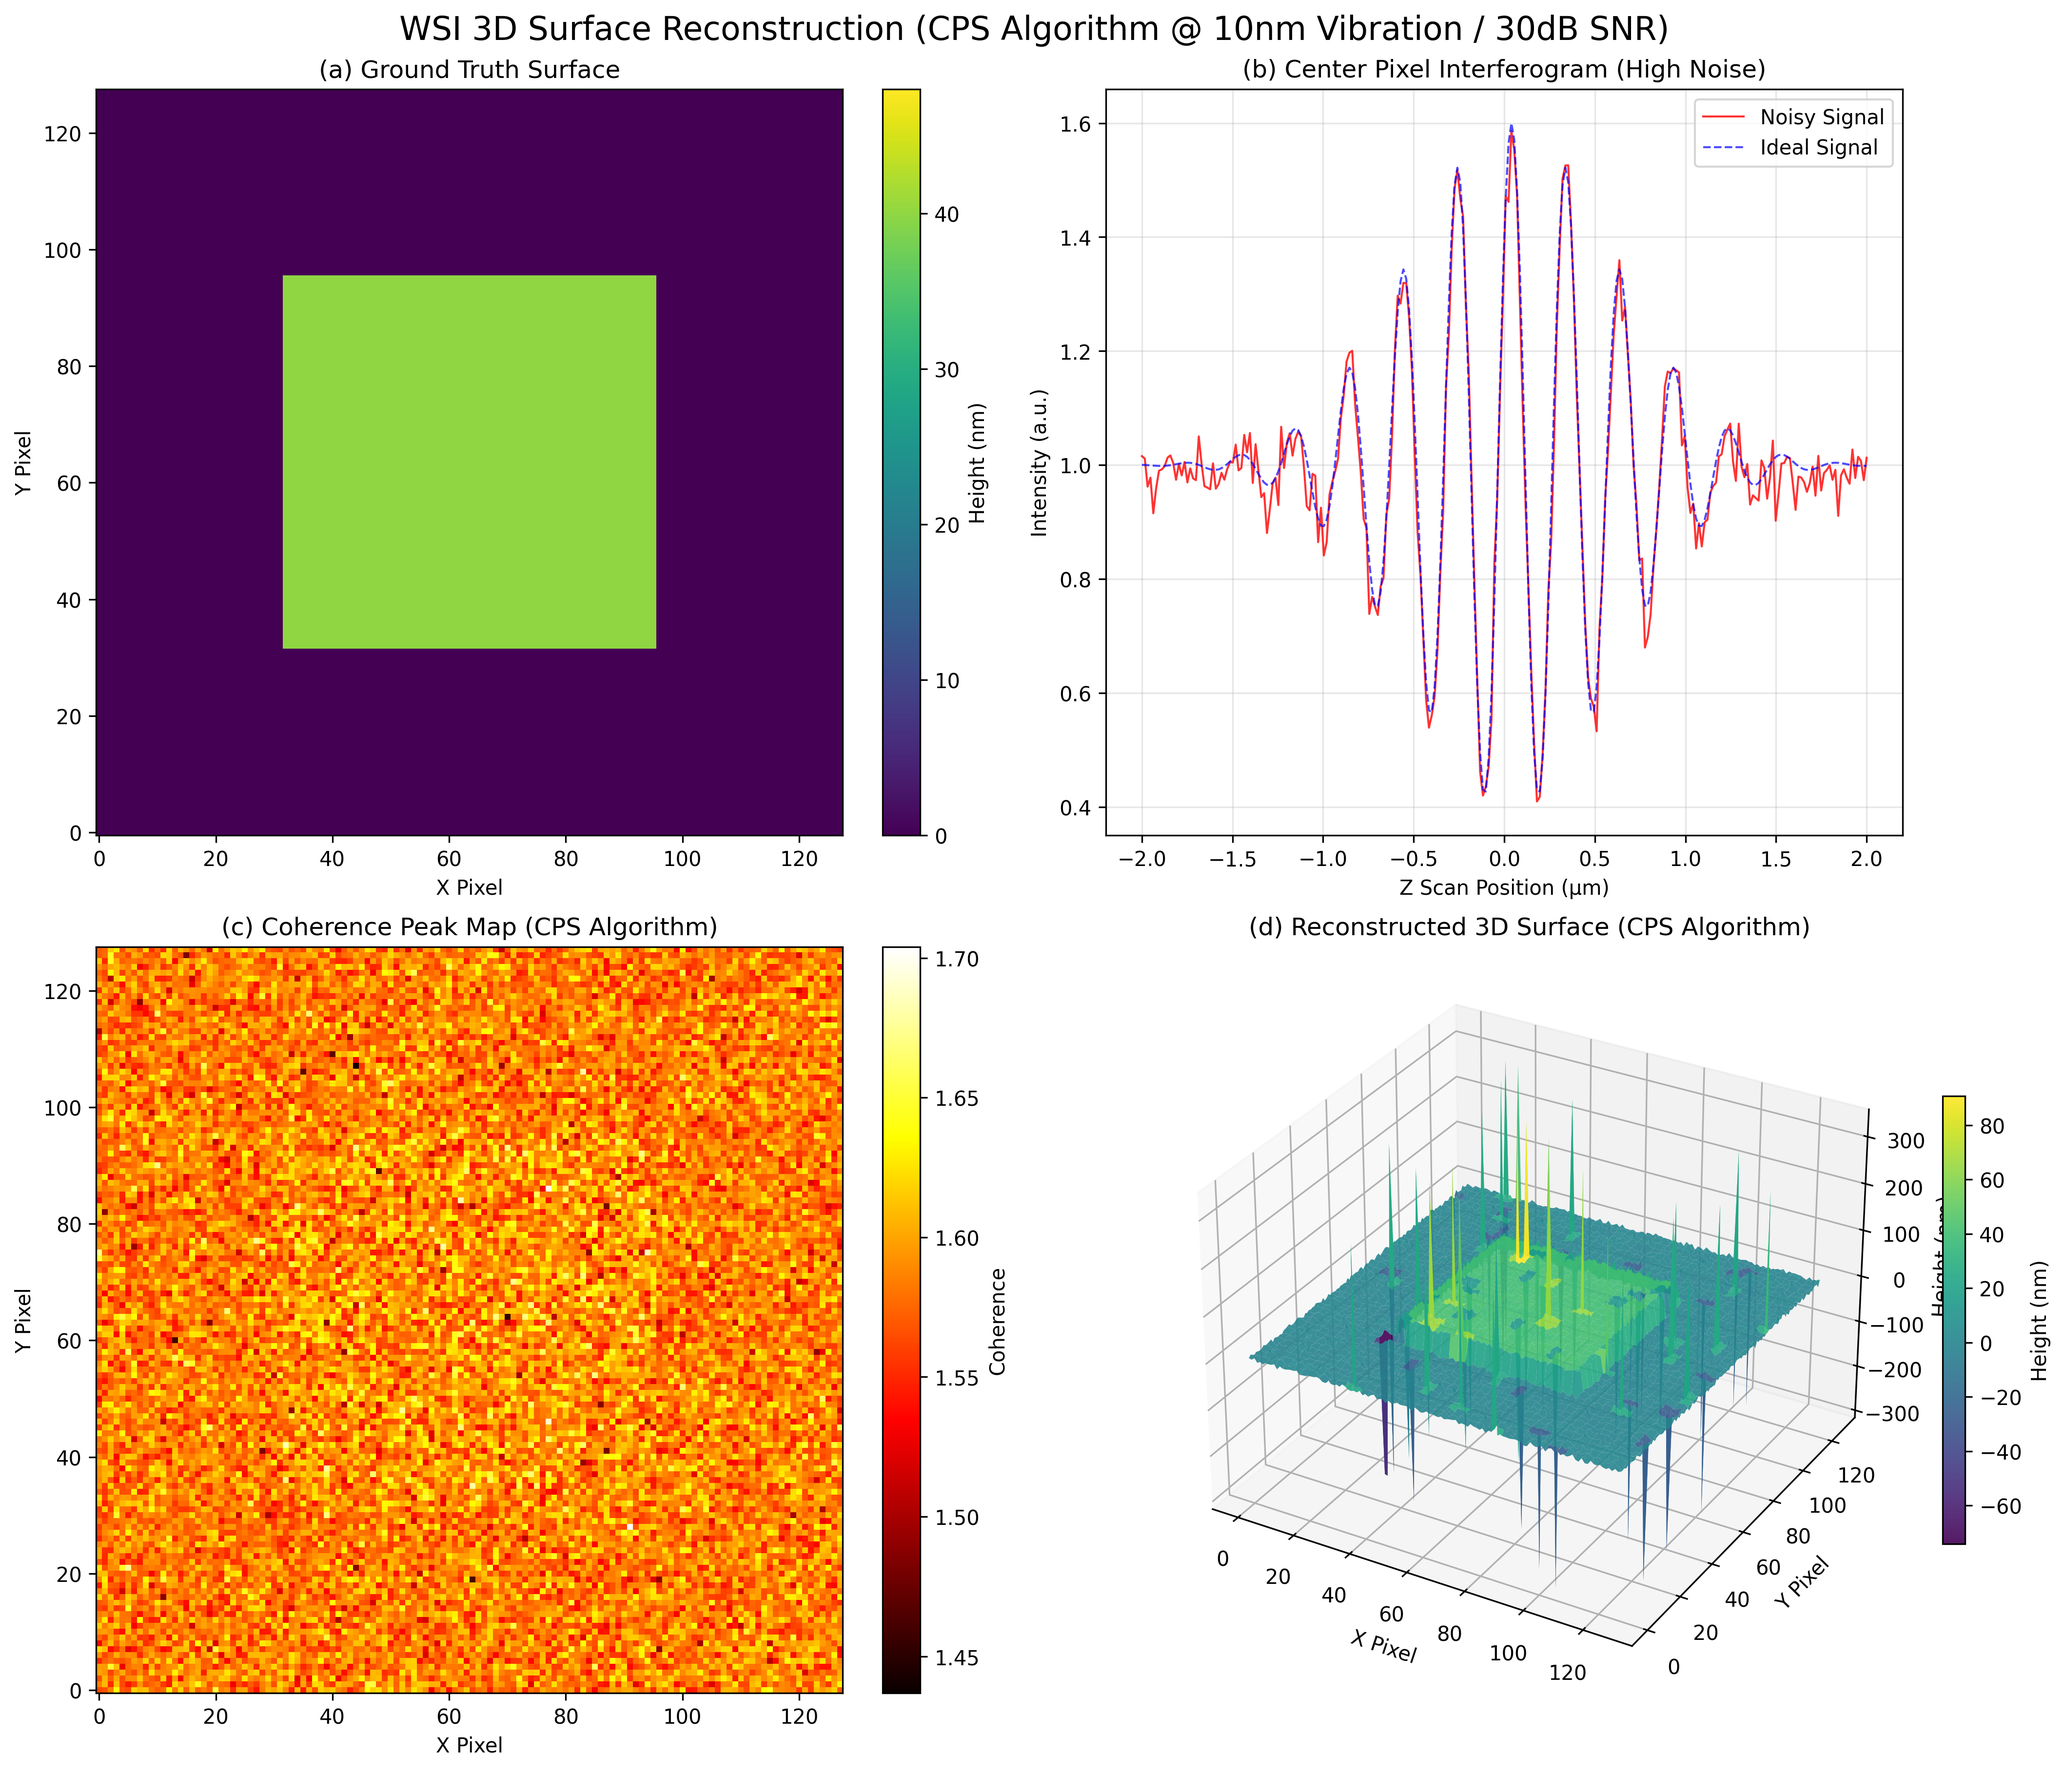
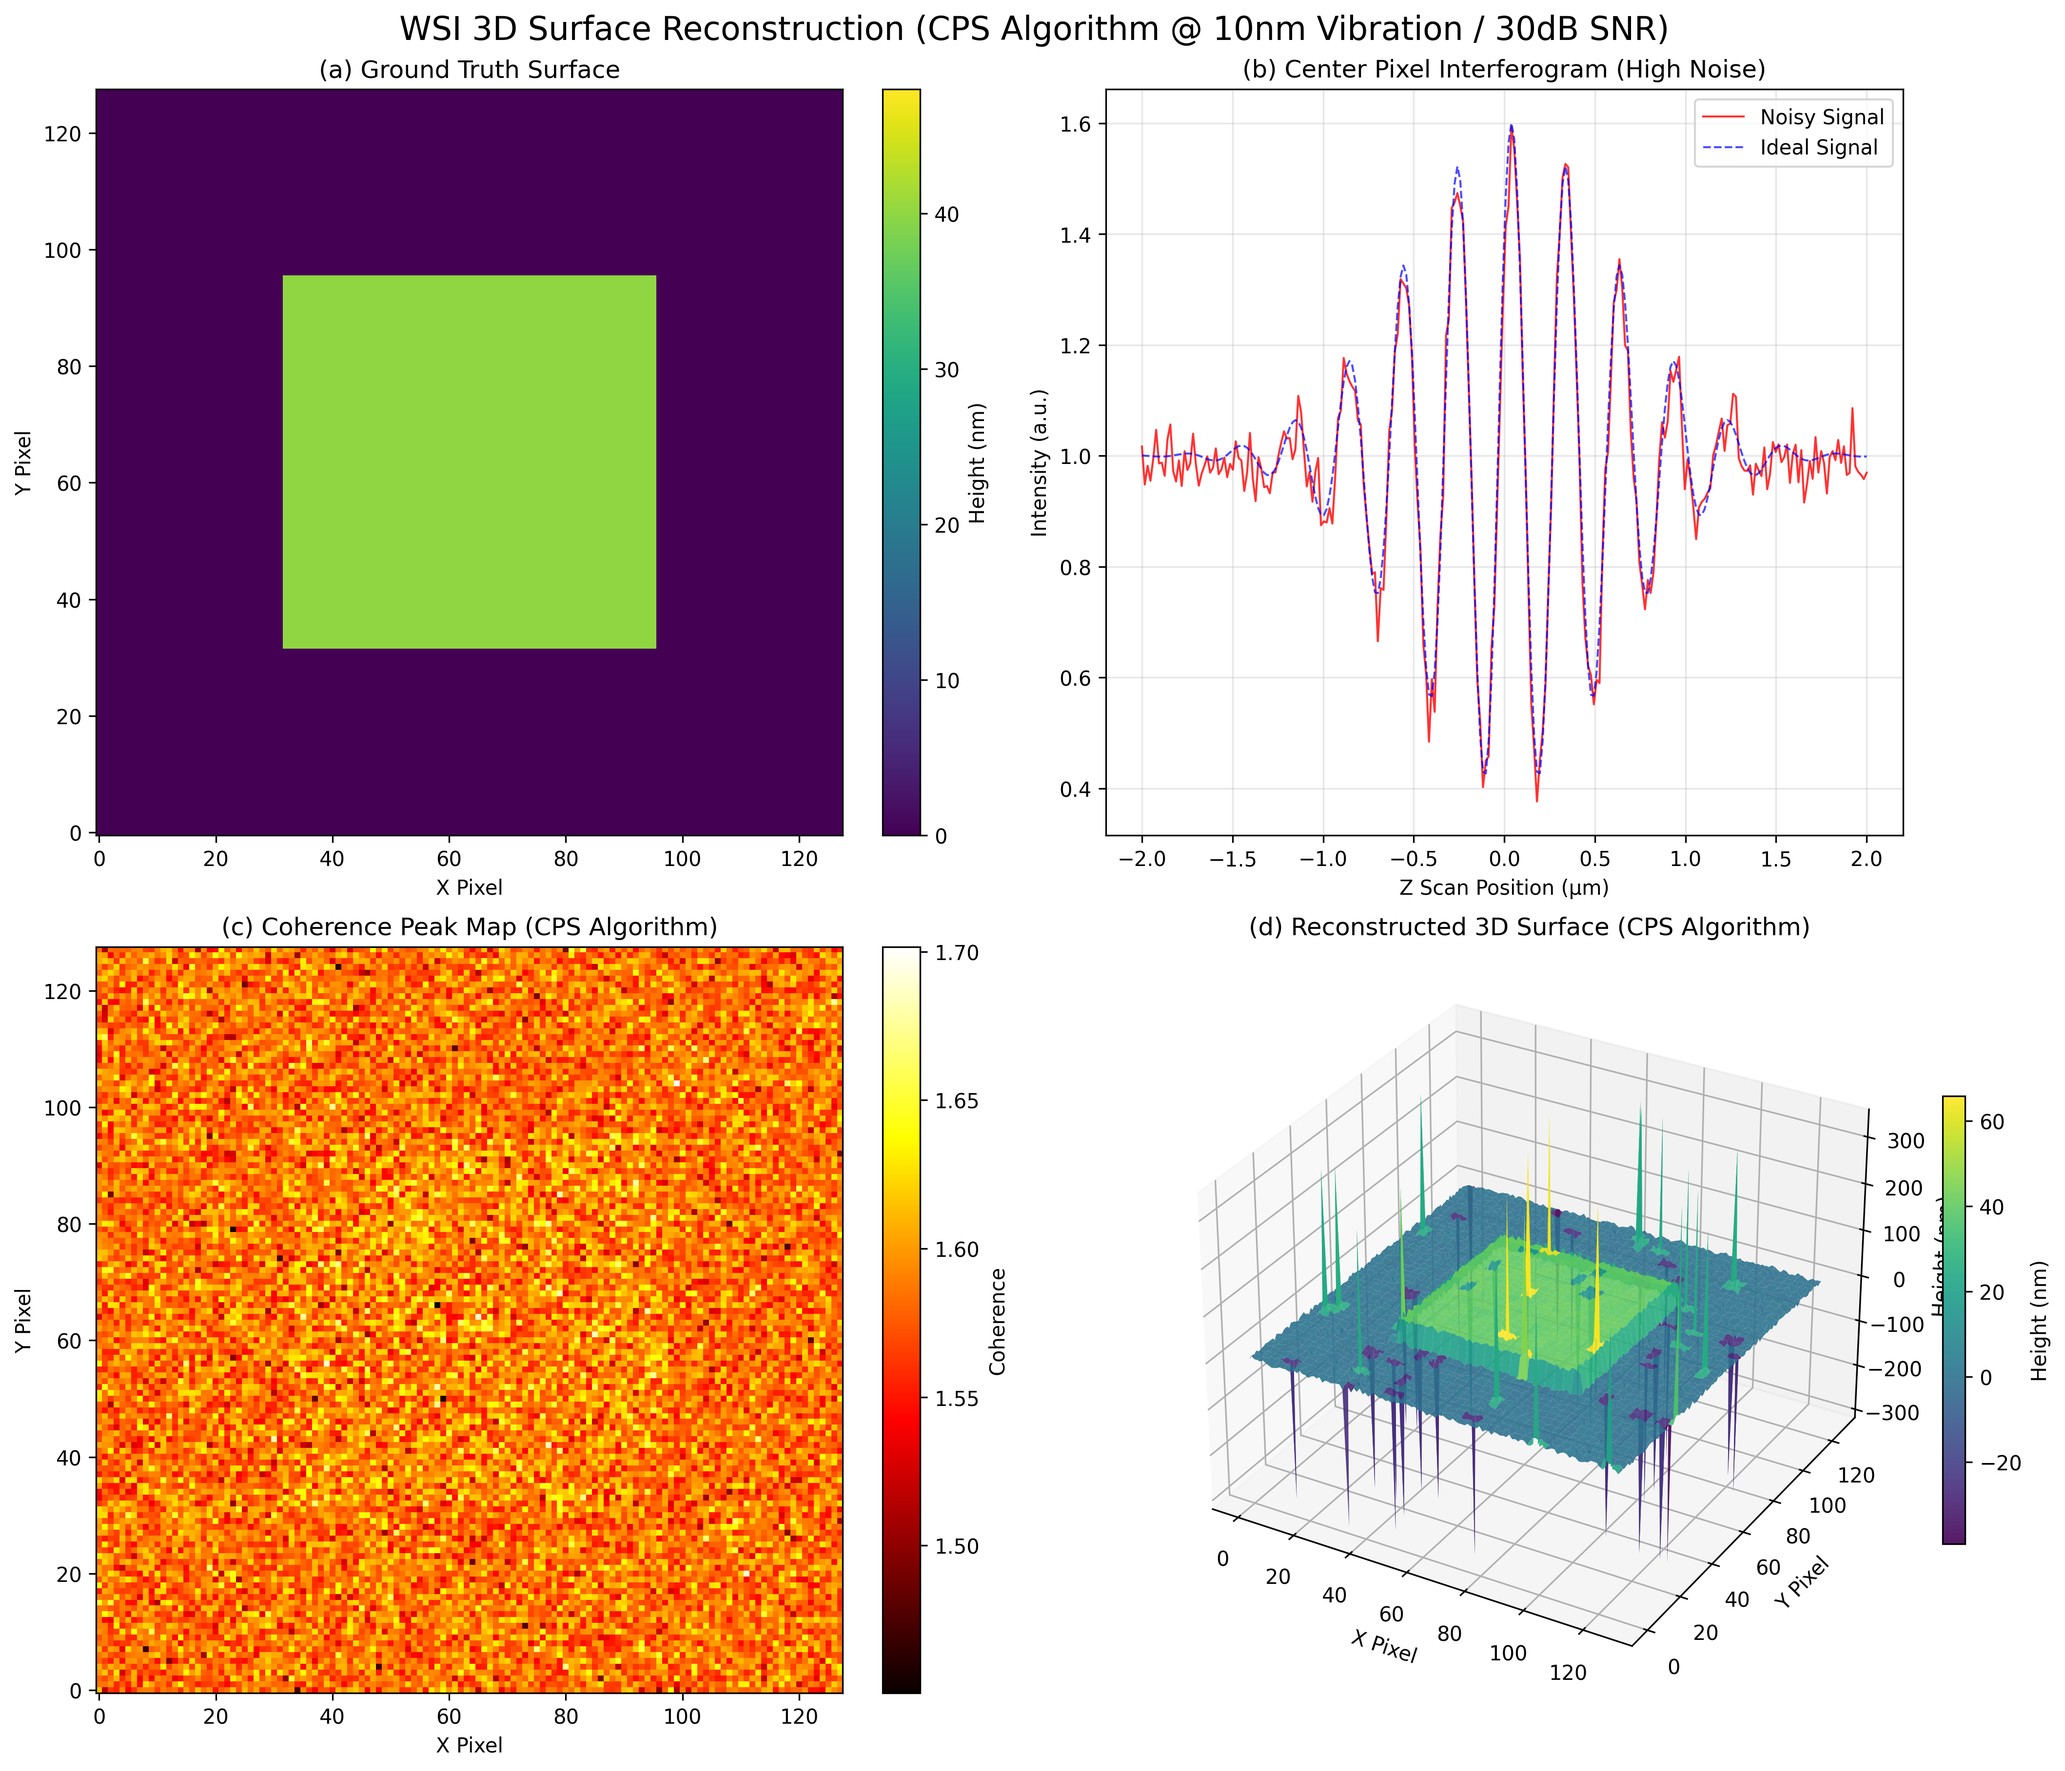
Fix: Implemented correct Takeda FFT algorithm and robust CPS. Cleaned project.

Changed region(s): [[0.0312, 0.5286, 0.4052, 0.964], [0.6234, 0.6219, 0.8727, 0.8707], [0.5299, 0.1555, 0.9039, 0.4353]]

diff --git a/src/processing.py b/src/processing.py
@@ -86,98 +86,59 @@ def process_cps_subpixel(stack, z_scan, smooth_sigma=8.0):
 
 def process_fft_phase(stack, z_scan, smooth_sigma=10.0, band_frac=0.15):
     """
-    算法二：基于FFT频域滤波和亚像素相位的WLPSI重建
+    算法二：基于FFT频域载波相位的WLPSI重建 (Takeda 修正版)
     （适用于高精度离线计量）
     
     参数:
         stack: 3D干涉信号栈 (n_z, n_y, n_x)
         z_scan: Z轴扫描位置数组 (n_z,)
-        smooth_sigma: 包络平滑强度，建议10.0-15.0
-        band_frac: 频域滤波带宽比例
+        smooth_sigma: (此方法中未使用，为保持接口一致性保留)
+        band_frac: (此方法中未使用，为保持接口一致性保留)
         
     返回:
         wrapped_phase_map: 包裹相位图 (n_y, n_x) [-π, π]
         coherence_map: 相干度图 (n_y, n_x)
     """
+    print(f"🔧 开始FFT相位算法处理 (Takeda 修正版): 栈尺寸{stack.shape}")
     n_z, n_y, n_x = stack.shape
     
     if n_z < 3:
         raise ValueError("需要至少3个Z轴采样点")
-    
-    print(f"🔧 开始FFT相位算法处理: 栈尺寸{stack.shape}, 平滑sigma={smooth_sigma}")
-    
-    # 1. 计算Z轴步长
-    dz = float(z_scan[1] - z_scan[0])  # 修正：计算实际步长
+
+    # 1. 计算Z轴步长 (dz)
+    dz = float(z_scan[1] - z_scan[0])
     
     # 2. 沿Z轴进行FFT
     stack_fft = fft(stack, axis=0)
     freqs = fftfreq(n_z, d=dz)
     
-    # 3. 自适应带通滤波器设计
-    mean_spectrum = np.mean(np.abs(stack_fft), axis=(1, 2))
-    center_idx = np.argmax(mean_spectrum)
+    # 3. 找到正频率的载波频率 (关键步骤)
+    # 我们只关心正频率部分 (k > 0)，因为负频率是共轭的
+    positive_freq_mask = (freqs > 0)
     
-    half_bw = max(2, int(n_z * band_frac / 2))
-    sigma = max(1.0, half_bw / 2.0)
+    # 如果没有正频率 (例如采样点太少)，则出错
+    if not np.any(positive_freq_mask):
+        raise ValueError("无法找到正载波频率，请检查Z轴采样")
+        
+    # 计算正频率部分的平均频谱
+    mean_spectrum = np.mean(np.abs(stack_fft[positive_freq_mask, :, :]), axis=(1, 2))
     
-    idxs = np.arange(n_z)
-    band = np.exp(-0.5 * ((idxs - center_idx) / sigma)**2)
+    # 找到正频率中的峰值索引（相对于掩码）
+    center_idx_relative = np.argmax(mean_spectrum)
     
-    # 构造解析信号滤波器（抑制负频率）
-    analytic_mask = np.zeros_like(freqs, dtype=float)
-    analytic_mask[freqs > 0] = 2.0
-    analytic_mask[np.isclose(freqs, 0.0)] = 1.0
+    # 将其映射回原始FFT数组的绝对索引
+    positive_indices = np.where(positive_freq_mask)[0]
+    center_idx_absolute = positive_indices[center_idx_relative]
     
-    filter_1d = band * analytic_mask
-    filter_3d = filter_1d.reshape(n_z, 1, 1)
+    print(f"  ...检测到载波频率索引: {center_idx_absolute} (对应频率: {freqs[center_idx_absolute]:.2f})")
     
-    # 4. 应用滤波器并逆变换
-    stack_fft_filtered = stack_fft * filter_3d  # 修正：定义stack_fft_filtered
-    analytic_stack = ifft(stack_fft_filtered, axis=0)
+    # 4. 提取该频率下的相位和相干度 (核心)
     
-    # 5. 提取包络和相位
-    envelope = np.abs(analytic_stack)
-    phase_stack = np.angle(analytic_stack)
+    # 包裹相位图 = 该载波频率分量的相位角
+    wrapped_phase_map = np.angle(stack_fft[center_idx_absolute, :, :])
     
-    # 6. 强力平滑包络 - 关键改进！
-    envelope_smooth = gaussian_filter1d(envelope, sigma=smooth_sigma, axis=0, mode='nearest')
-    
-    # 7. 寻找包络峰值
-    peak_idx = np.argmax(envelope_smooth, axis=0)
-    
-    # 8. 亚像素相位插值
-    wrapped_phase_map = np.zeros((n_y, n_x), dtype=float)  # 修正：定义返回变量
-    coherence_map = np.zeros((n_y, n_x), dtype=float)      # 修正：定义返回变量
-    
-    z_indices = np.arange(n_z)  # 修正：定义z_indices
-    
-    for yi in range(n_y):
-        for xi in range(n_x):
-            i = int(peak_idx[yi, xi])
-            
-            # 边界保护
-            if i <= 0:
-                i = 1
-            if i >= n_z - 1:
-                i = n_z - 2
-            
-            # 亚像素拟合
-            vm1 = envelope_smooth[i - 1, yi, xi]
-            v0 = envelope_smooth[i, yi, xi]
-            vp1 = envelope_smooth[i + 1, yi, xi]
-            shift = _parabolic_subpixel(vm1, v0, vp1)
-            float_idx = i + shift
-            
-            # 复数插值获取精确相位
-            real_seq = analytic_stack[:, yi, xi].real
-            imag_seq = analytic_stack[:, yi, xi].imag
-            
-            real_val = np.interp(float_idx, z_indices, real_seq)
-            imag_val = np.interp(float_idx, z_indices, imag_seq)
-            complex_val = real_val + 1j * imag_val
-            
-            wrapped_phase_map[yi, xi] = np.angle(complex_val)
-            coherence_map[yi, xi] = np.interp(float_idx, z_indices, envelope[:, yi, xi])
-    
-    print("✅ FFT相位算法处理完成")
-    return wrapped_phase_map, coherence_map  # 修正：返回已定义的变量
+    # 相干度图 = 该载波频率分量的幅度
+    coherence_map = np.abs(stack_fft[center_idx_absolute, :, :])
+
+    print("✅ FFT相位算法 (Takeda 修正版) 处理完成")
+    return wrapped_phase_map, coherence_map
